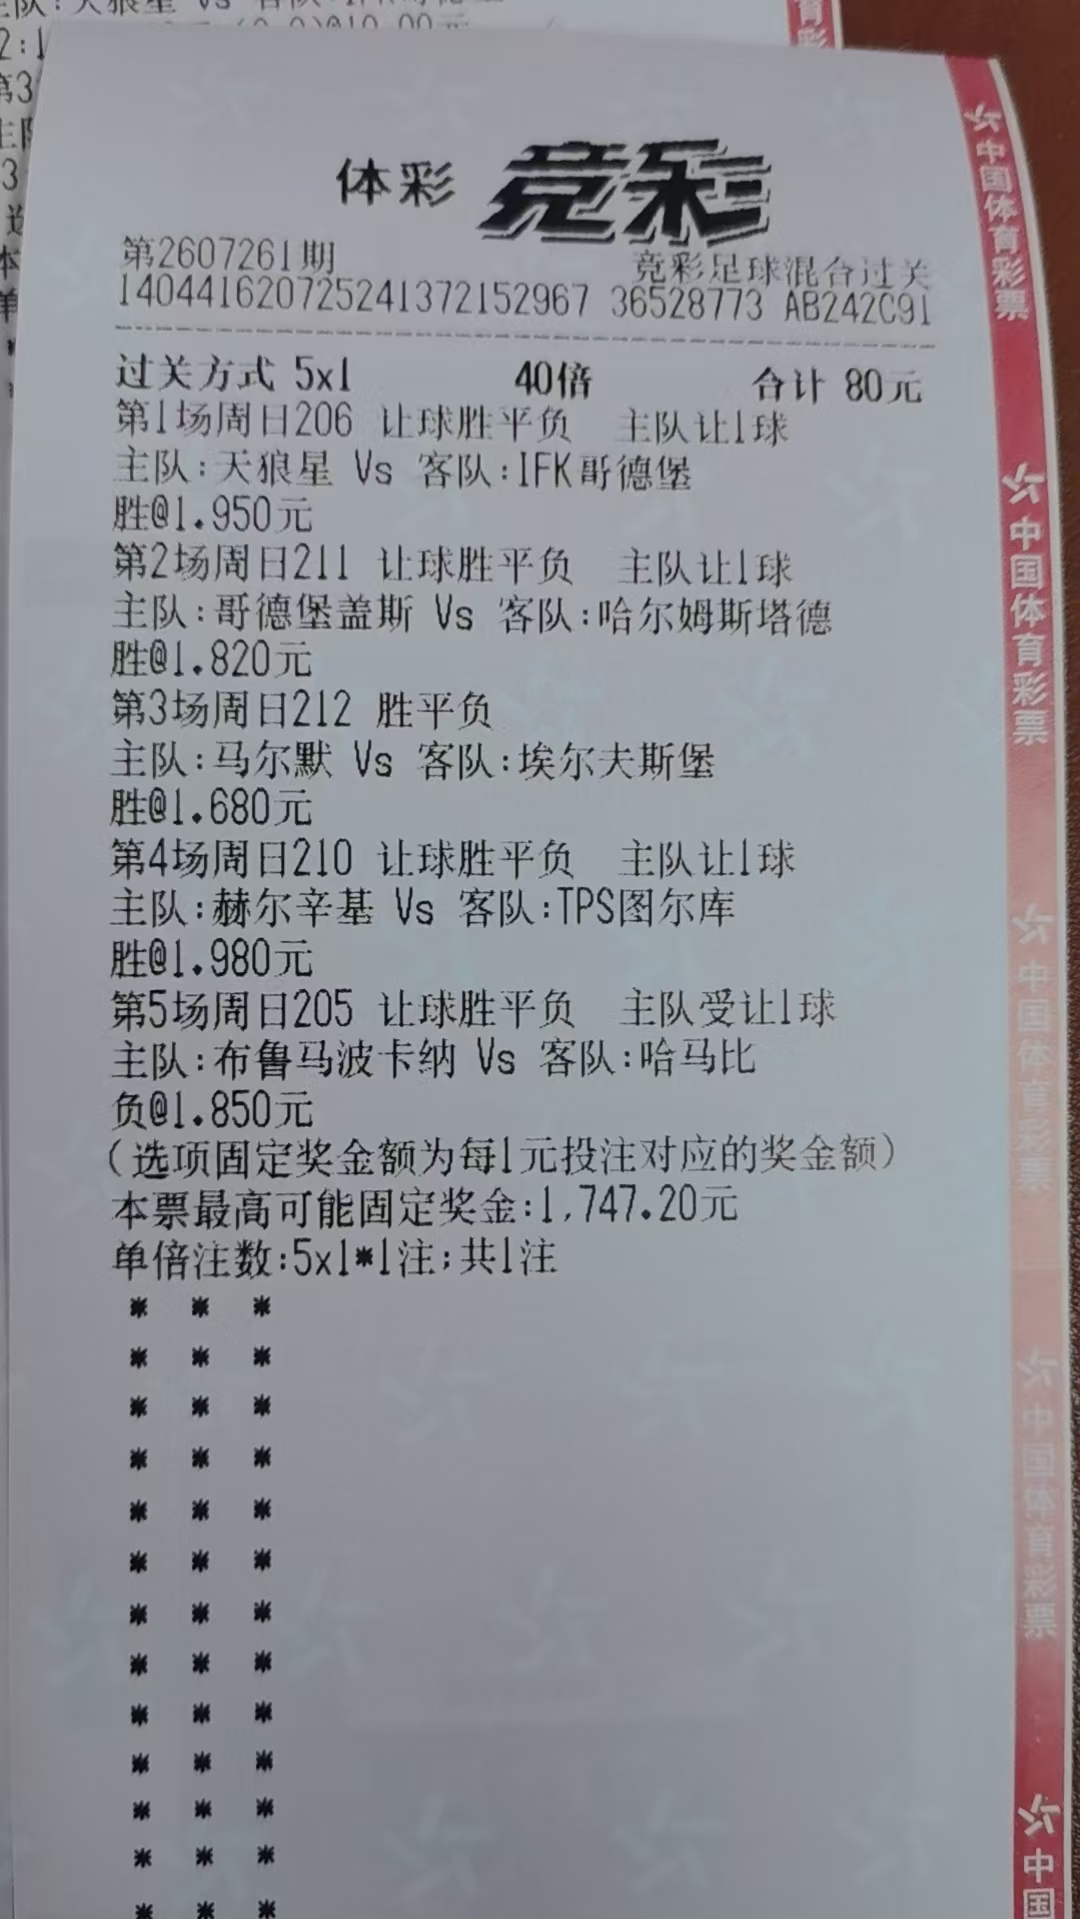
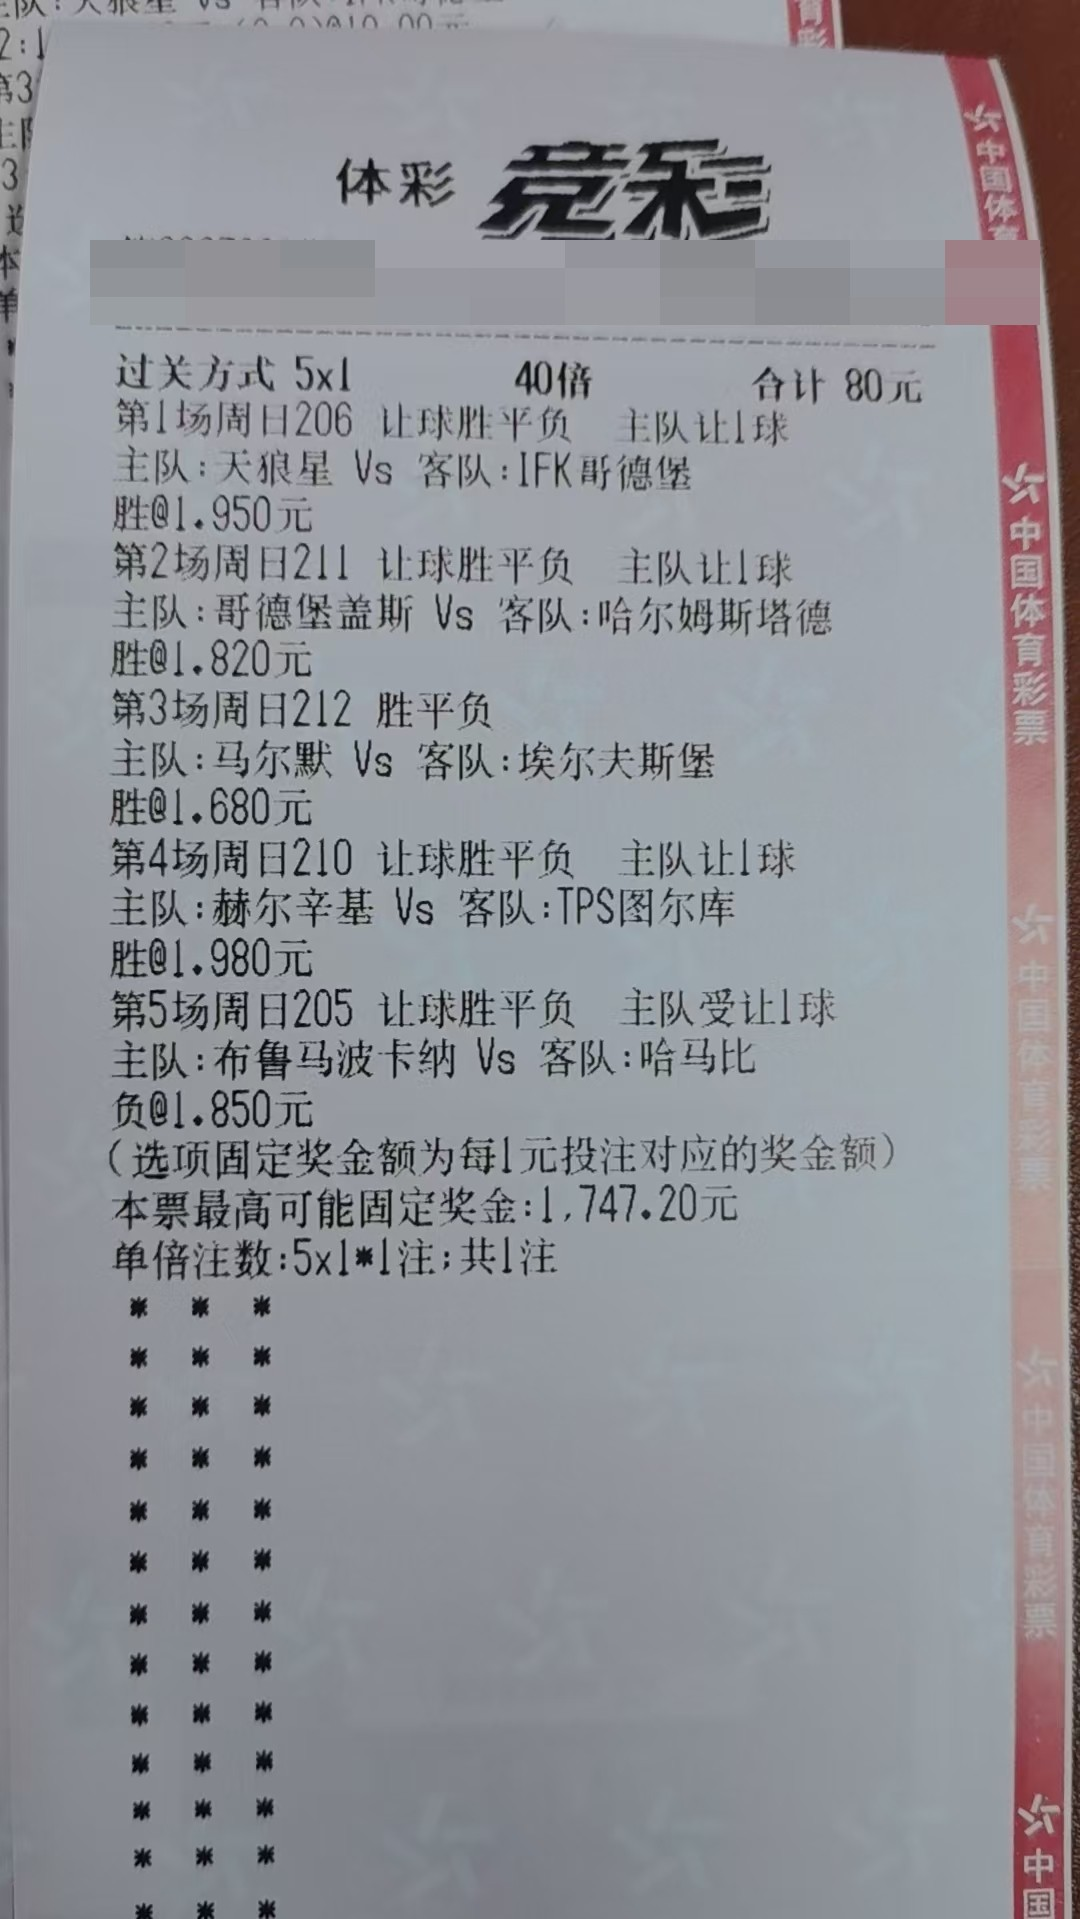
chore: 票样打码 + dist发布包 + Cloudflare Pages 部署指南

Changed region(s): [[0.5806, 0.123, 0.9778, 0.1845], [0.0611, 0.123, 0.3667, 0.1537], [0.4889, 0.123, 0.55, 0.1845]]

diff --git a/docs/deploy-cloudflare.md b/docs/deploy-cloudflare.md
@@ -1,0 +1,39 @@
+# Cloudflare Pages 部署指南（AI小熊 · 体育心得分享）
+
+> 站点为纯静态零依赖，部署 = 上传发布包即可，无需任何构建。
+
+## 首次部署（约 5 分钟）
+
+1. **注册/登录** Cloudflare：打开 https://dash.cloudflare.com ，邮箱注册免费账号（无需绑卡、无需域名）
+2. 左侧菜单 **Workers 和 Pages** → **创建** → 选择 **Pages** 标签 → **直接上传资产**（Upload assets / 直接上传）
+3. 项目名填 `ai-bear-sports`（将决定域名 `ai-bear-sports.pages.dev`，已被占用就换一个）
+4. 上传发布包：**桌面 `football-site-pages.zip`** 拖入（或选择 `dist\` 整个文件夹拖入），点 **部署站点**
+5. 约 30 秒完成，访问 **https://ai-bear-sports.pages.dev** ✅ 自动 HTTPS，国内可正常访问
+
+## 每天更新（两种方式）
+
+**方式 A · 手动（现在）**
+1. 在仓库根目录运行：`python -c "import shutil; shutil.make_archive('deploy-latest', 'zip', 'dist')"`（先用 README 的打包脚本重新生成 dist）
+   —— 或叫我一声"重新打包"，我帮你生成新 zip
+2. Cloudflare 项目页 → **创建新部署** → 传新 zip，域名不变
+
+**方式 B · git 自动（推荐，后续可升级）**
+1. 把本仓库 push 到 GitHub（需要 GitHub 账号）
+2. Cloudflare Pages 选 **连接到 Git** 授权该仓库，构建命令留空、输出目录填 `/`
+3. 以后每天 `git push` 后自动重新发布，无需手动上传
+
+## 发布包内容（dist/）
+```
+index.html
+stats.js
+data/predictions.js
+assets/logo.svg          （页头+favicon）
+assets/ai-poster.png     （海报）
+assets/bets/*.jpg        （票样，已打码）
+```
+不打包：`.git/`、`docs/`、`test/`、`README.md`、未启用的备选图（`poster.svg`、`ai-poster-alt.png`）。
+
+## 注意事项
+- 票样照片**已打码**（票号行两遍高斯+马赛克），原图仅存于本机桌面，不在仓库
+- 仓库若将来 push 到公开 GitHub，`assets/bets/` 中的也已是打码版，安全
+- 内容为合法竞彩分析+个人记录，符合 Cloudflare 服务条款；.pages.dev 免费额度对本站绰绰有余
